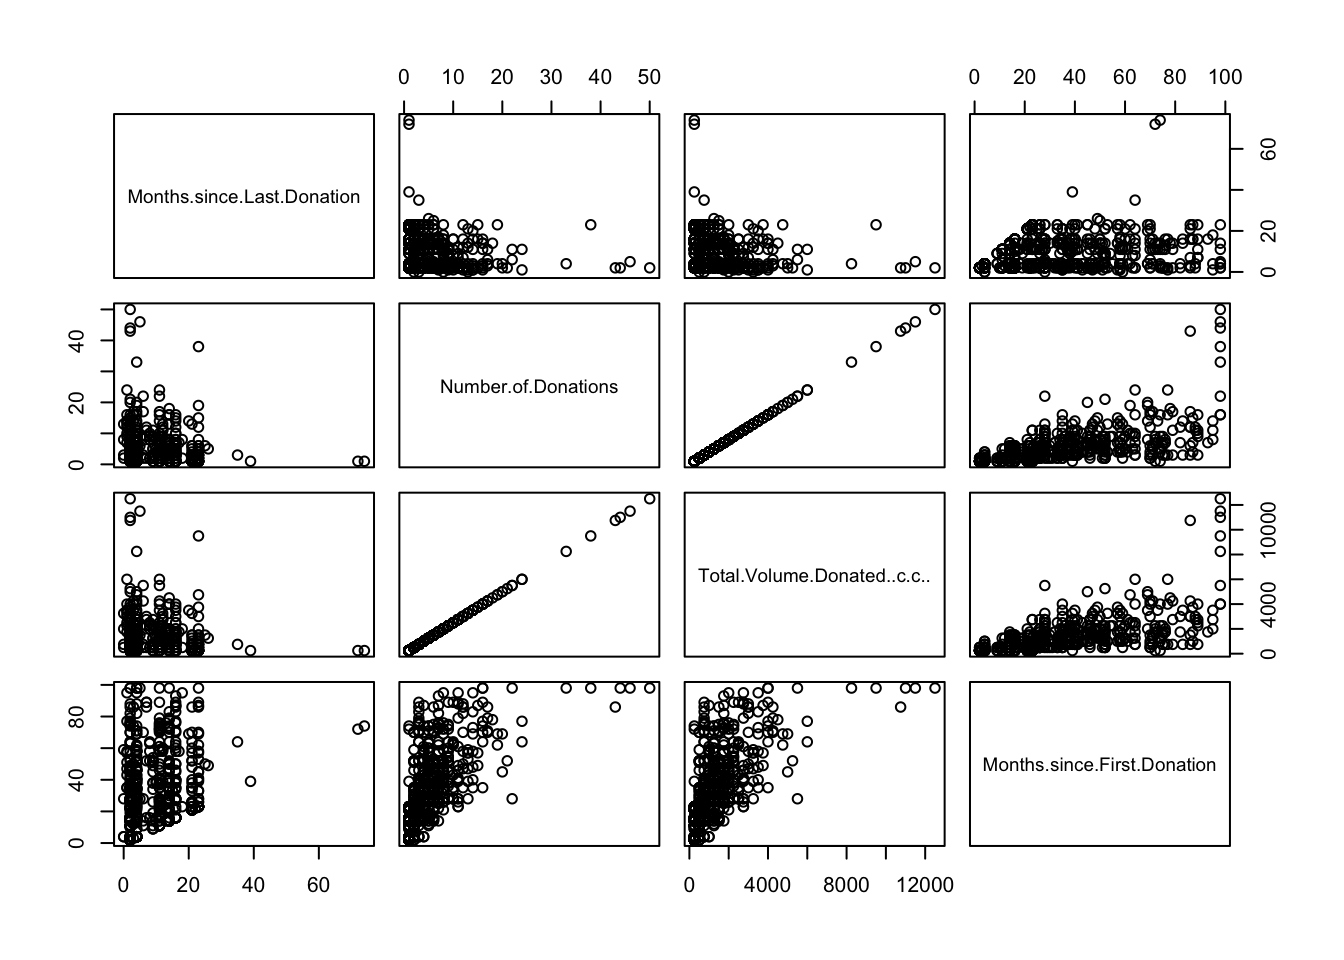
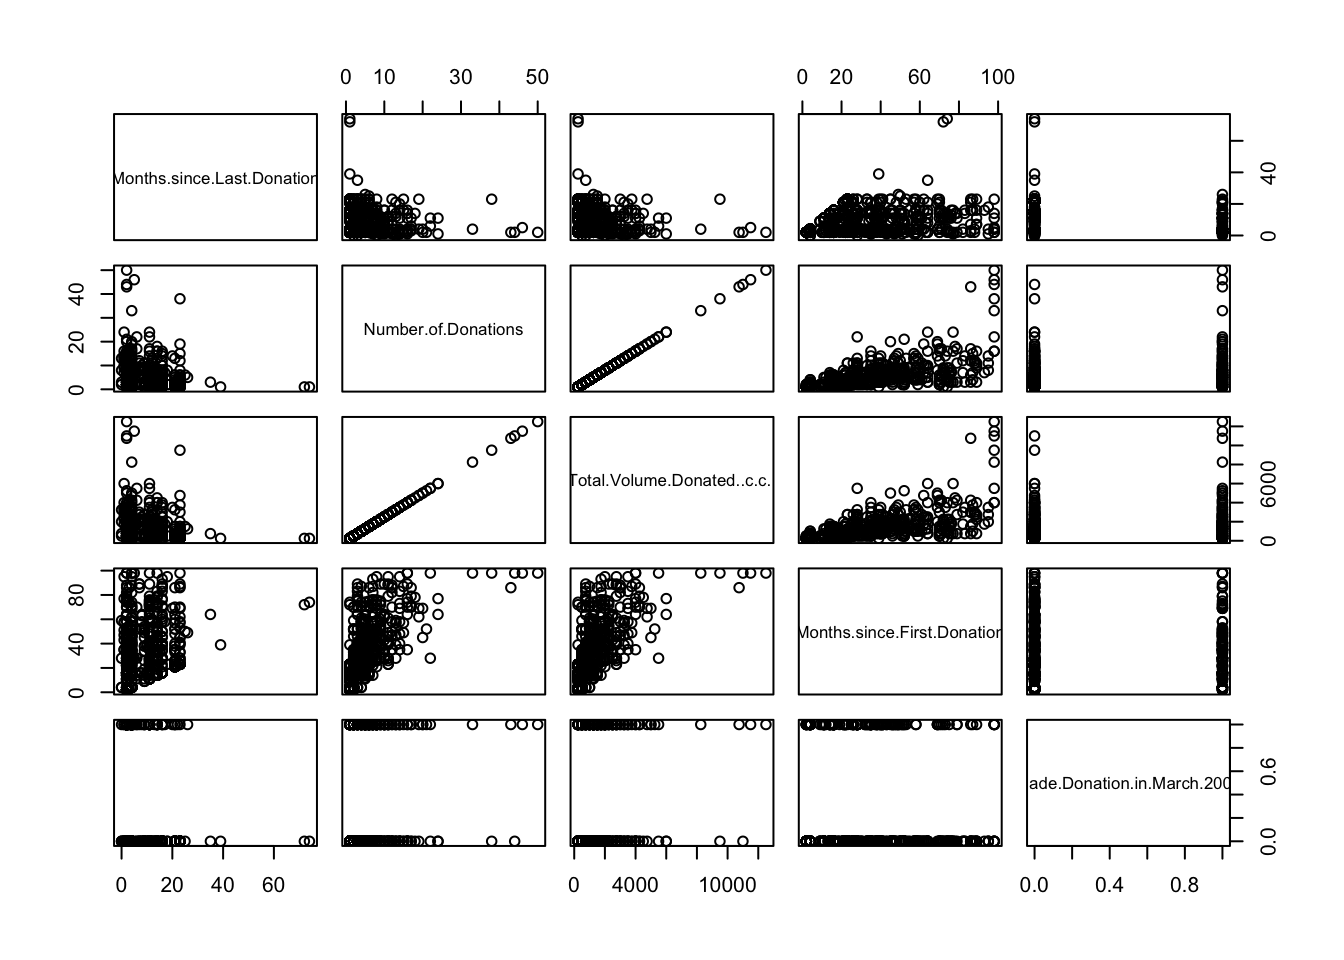
First build

diff --git a/post/predicting-blood-donations/index.html b/post/predicting-blood-donations/index.html
@@ -357,9 +357,18 @@ head(training)</code></pre>
 <p>Plot scatter matrix of covariates</p>
 <pre class="r"><code>X &lt;- training[1:(ncol(training)-1)]
 y &lt;- training[ncol(training)]
-pairs(X)</code></pre>
+pairs(training)</code></pre>
 <p><img src="/post/2018-06-19-predicting-blood-donations_files/figure-html/scatter_matrix-1.png" width="672" /></p>
 <p>Notice that <code>Number.of.Donations</code> and <code>Total.Volume.Donated..c.c..</code> are perfectly correlated. Which means that one of them needs to be dropped in any regression.</p>
+<pre class="r"><code>ggplot(training,aes(Number.of.Donations, Months.since.Last.Donation, colour = factor(Made.Donation.in.March.2007))) + geom_point() + theme(legend.position = &quot;none&quot;)</code></pre>
+<p><img src="/post/2018-06-19-predicting-blood-donations_files/figure-html/unnamed-chunk-2-1.png" width="672" /></p>
+<pre class="r"><code>ggplot(training,aes(factor(Made.Donation.in.March.2007), Months.since.Last.Donation)) + geom_boxplot()</code></pre>
+<p><img src="/post/2018-06-19-predicting-blood-donations_files/figure-html/unnamed-chunk-3-1.png" width="672" />
+Some more</p>
+<pre class="r"><code>ggplot(training, aes(Number.of.Donations)) +
+  geom_histogram(binwidth = 1, na.rm = TRUE)</code></pre>
+<p><img src="/post/2018-06-19-predicting-blood-donations_files/figure-html/unnamed-chunk-4-1.png" width="672" />
+x</p>
 </div>
 
     </div>
